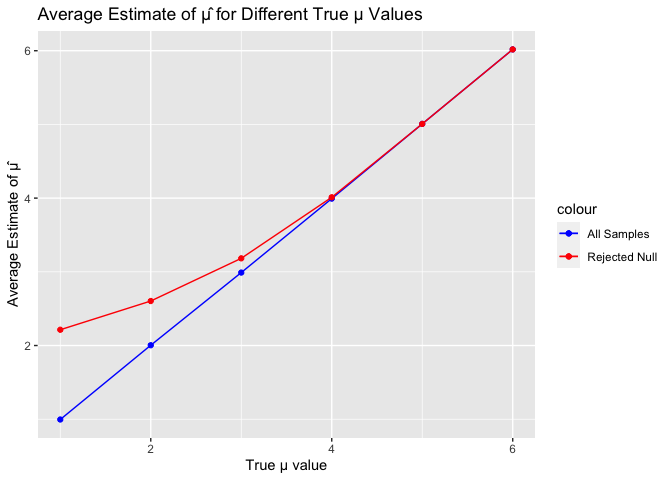
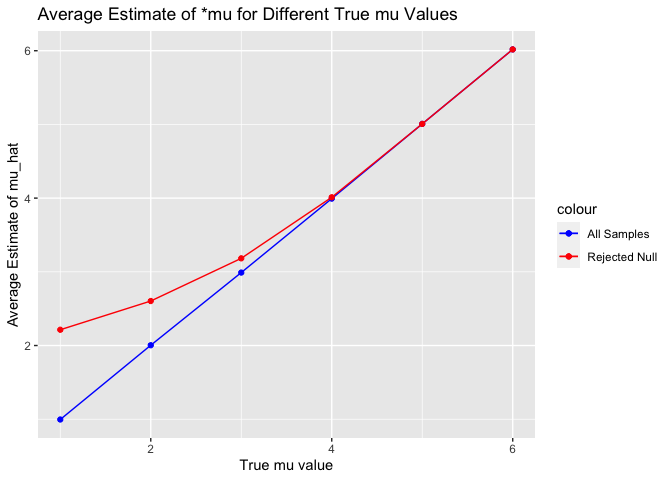
add comment for question 3

Changed region(s): [[0.2812, 0.0, 0.6875, 0.0625], [0.0, 0.2812, 0.0312, 0.6875], [0.3438, 0.9375, 0.5, 1.0]]

diff --git a/Homework5.md b/Homework5.md
@@ -239,6 +239,8 @@ experimental groups increased as the time goes by.
 
 ## Problem 3
 
+#### Simulation
+
 ``` r
 # Function to simulate data from a normal distribution, conduct t-test, and obtain p-value
 simulate_t_test <- function(n, mu, sigma, alpha) {
@@ -278,17 +280,20 @@ power_by_mu <-
   summarize(power = mean(p.value < 0.05))
 ```
 
-\#Plot
+#### Plot
 
 ``` r
 ggplot(power_by_mu, aes(x = mu, y = power)) +
   geom_line() +
   geom_point() +
-  labs(x = "True μ value", y = "Power (Proportion of rejected null hypotheses)") +
-  ggtitle("Power of One-Sample t-Test for Different True μ Values")
+  labs(x = "True mu value", y = "Power (Proportion of rejected null hypotheses)") +
+  ggtitle("Power of One-Sample t-Test for Different True mu Values")
 ```
 
 ![](Homework5_files/figure-gfm/unnamed-chunk-7-1.png)<!-- -->
+
+With the true $\mu$ value getting higher, the power of test is getting
+closer and closer to 1.
 
 ``` r
 avg_estimate_all <- 
@@ -311,9 +316,14 @@ ggplot(combined_data, aes(x = mu)) +
   geom_point(aes(y = avg_estimate, color = "All Samples")) +
   geom_line(aes(y = avg_estimate_rejected, color = "Rejected Null")) +
   geom_point(aes(y = avg_estimate_rejected, color = "Rejected Null")) +
-  labs(x = "True μ value", y = "Average Estimate of μ̂") +
+  labs(x = "True mu value", y = "Average Estimate of mu_hat") +
   scale_color_manual(values = c("All Samples" = "blue", "Rejected Null" = "red")) +
-  ggtitle("Average Estimate of μ̂ for Different True μ Values")
+  ggtitle("Average Estimate of *mu for Different True mu Values")
 ```
 
 ![](Homework5_files/figure-gfm/unnamed-chunk-8-1.png)<!-- -->
+
+The sample average of $\mu$ across tests for which the null is rejected
+is **not** approximately equal to the true value of $\mu$ due to the
+inherent randomness and variability present in sampling and statistical
+inference.
